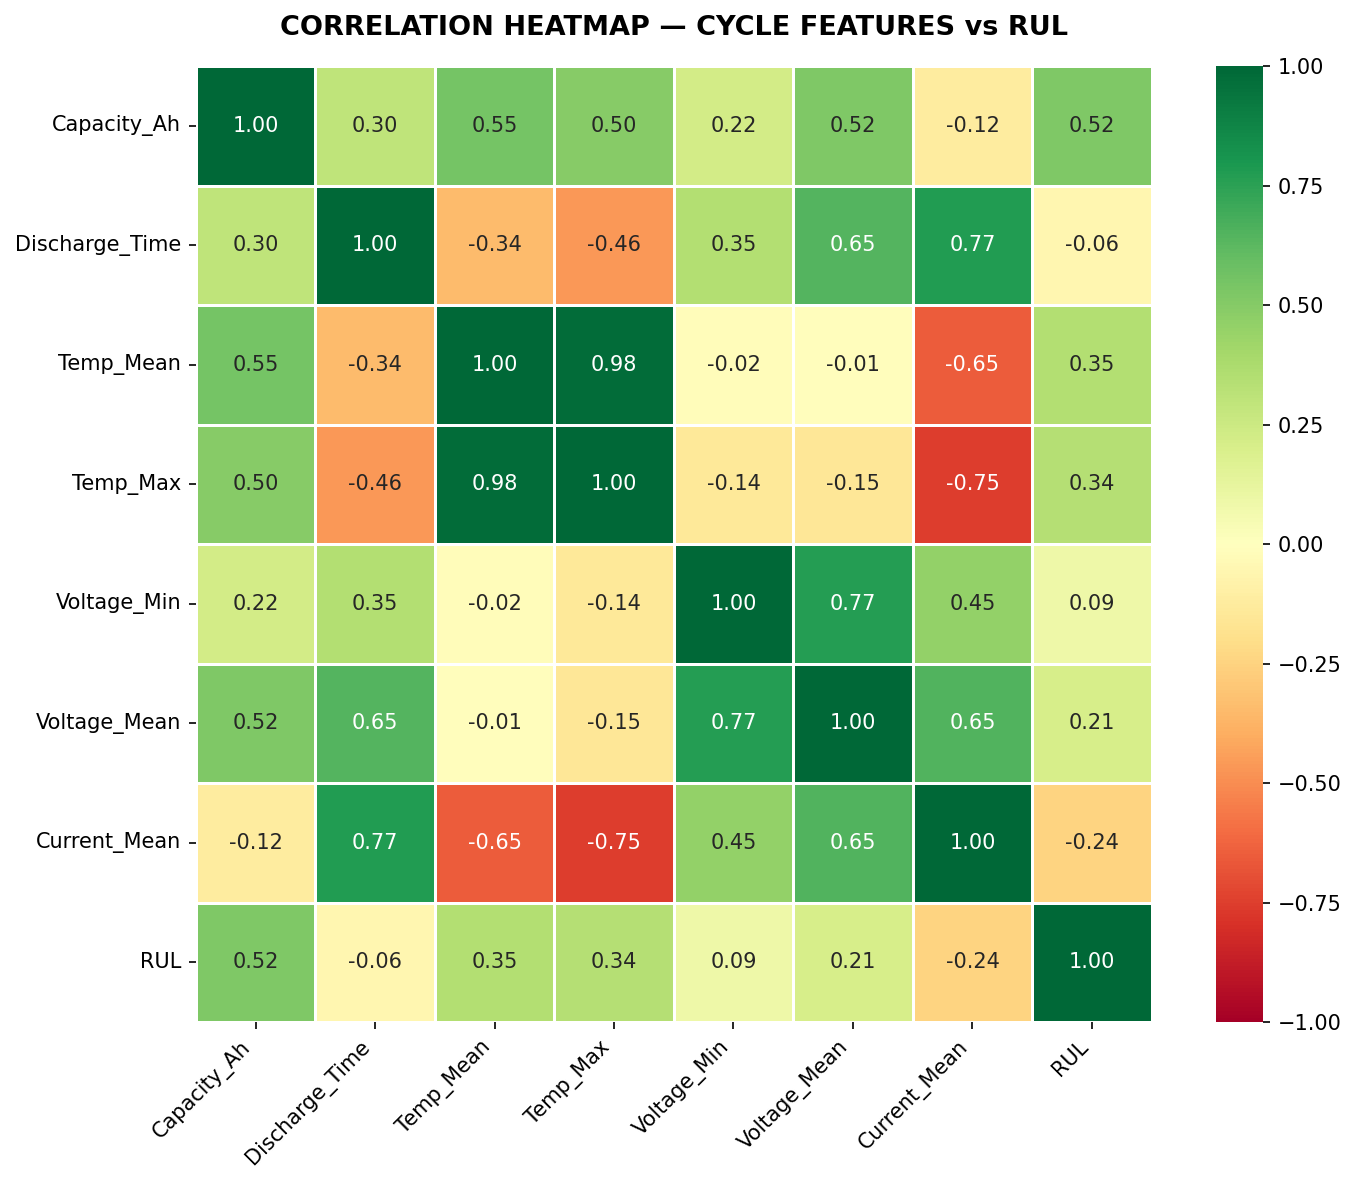
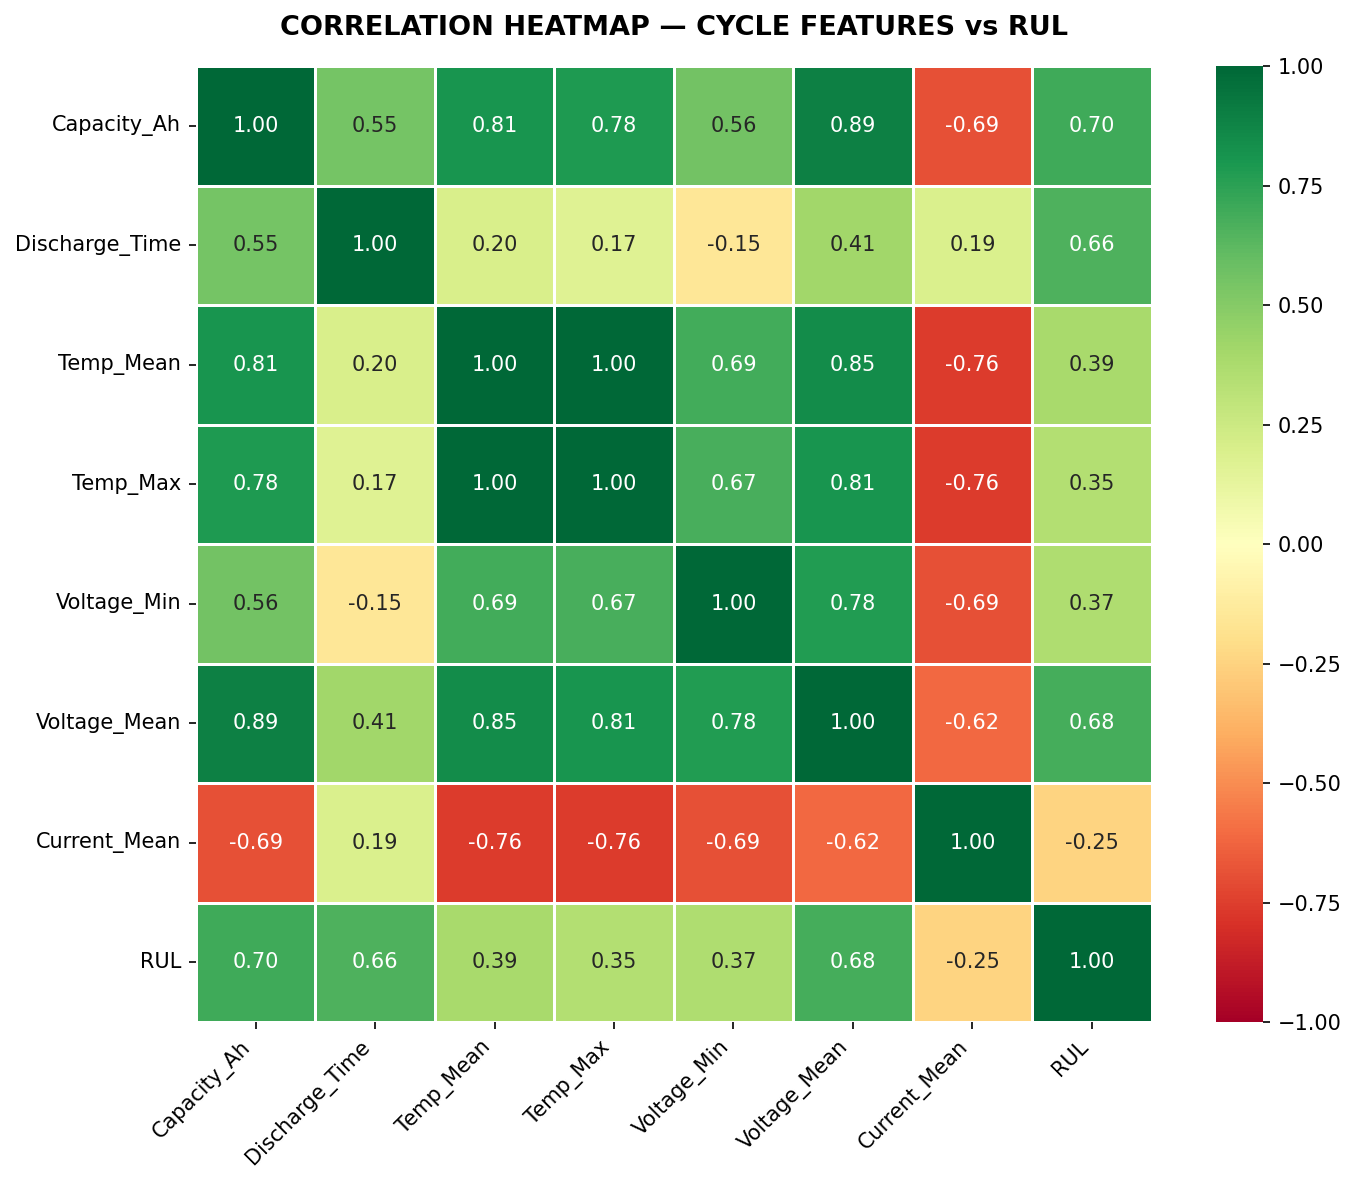
Add health_builder: CYCLE_HEALTH table for health prediction

diff --git a/src/features/health_builder.py b/src/features/health_builder.py
@@ -1,0 +1,94 @@
+import os
+import sys
+import numpy as np
+import pandas as pd
+
+SRC_DIR = os.path.dirname(os.path.dirname(os.path.abspath(__file__)))
+if SRC_DIR not in sys.path:
+    sys.path.insert(0, SRC_DIR)
+
+from db_connection import get_engine
+
+# ── PARAMETERS ───────────────────────────────────────────────────────────────
+MIN_VALID_CYCLES = 10   # ελάχιστοι έγκυροι κύκλοι για να μπει μπαταρία
+MAX_HEALTH = 1.15   # κύκλοι πάνω από αυτό θεωρούνται ακραίες τιμές
+
+
+def build_cycle_health():
+    engine = get_engine()
+    if engine is None:
+        print("Database connection failed.")
+        return
+
+    # ── STEP 1: Έγκυροι κύκλοι όλων των μπαταριών ────────────────────────────
+    print("Step 1/3: Loading valid cycles from CYCLE_FEATURES_ALL...")
+    base_df = pd.read_sql("""
+        SELECT Cycle_ID, Battery_ID, Cycle_Index, Capacity_Ah, Nominal
+        FROM CYCLE_FEATURES_ALL
+        WHERE Flag = 1
+        ORDER BY Battery_ID, Cycle_Index
+    """, engine)
+
+    counts = base_df.groupby("Battery_ID")["Cycle_ID"].count()
+    excluded = counts[counts < MIN_VALID_CYCLES]
+    base_df = base_df[base_df["Battery_ID"].isin(counts[counts >= MIN_VALID_CYCLES].index)].copy()
+    print(f"   {base_df['Battery_ID'].nunique()} batteries, {len(base_df)} cycles.")
+    if len(excluded) > 0:
+        print(f"   Excluded (< {MIN_VALID_CYCLES} valid cycles): {excluded.to_dict()}")
+
+    # ── STEP 2: Στόχος: ωμή χωρητικότητα / Nominal ───────────────────────────
+    base_df["Health"] = base_df["Capacity_Ah"] / base_df["Nominal"]
+
+    n_before = len(base_df)
+    base_df = base_df[base_df["Health"] <= MAX_HEALTH].copy()
+    print(f"   Removed {n_before - len(base_df)} cycles with Health > {MAX_HEALTH}.")
+
+    # ── STEP 3: Features από MEASUREMENTS ────────────────────────────────────
+    print("Step 2/3: Extracting features from MEASUREMENTS...")
+    ids_str = ",".join(str(i) for i in base_df["Cycle_ID"].tolist())
+    features_df = pd.read_sql(f"""
+        SELECT
+            Cycle_ID,
+            MAX(Time_Seconds)        AS Discharge_Time,
+            AVG(Temperature_Measure) AS Temp_Mean,
+            MAX(Temperature_Measure) AS Temp_Max,
+            MIN(Voltage_Measured)    AS Voltage_Min,
+            AVG(Voltage_Measured)    AS Voltage_Mean,
+            AVG(Current_Measured)    AS Current_Mean
+        FROM MEASUREMENTS
+        WHERE Cycle_ID IN ({ids_str})
+          AND Current_Measured < -0.1
+        GROUP BY Cycle_ID
+    """, engine)
+
+    out = base_df.merge(features_df, on="Cycle_ID", how="inner")
+    print(f"   Rows after merge: {len(out)} (lost {len(base_df) - len(out)} without measurements).")
+
+    out = out[[
+        "Cycle_ID", "Battery_ID", "Cycle_Index",
+        "Capacity_Ah", "Nominal", "Health",
+        "Discharge_Time", "Temp_Mean", "Temp_Max",
+        "Voltage_Min", "Voltage_Mean", "Current_Mean"
+    ]].copy()
+
+    # ── STEP 4: Αποθήκευση και σύνοψη ────────────────────────────────────────
+    print("Step 3/3: Saving CYCLE_HEALTH...")
+    out.to_sql("CYCLE_HEALTH", con=engine, if_exists="replace",
+               index=False, chunksize=200)
+
+    print("\n── HEALTH SUMMARY PER BATTERY ──")
+    print(f"{'Battery':>8} {'Cycles':>7} {'Nominal':>8} "
+          f"{'H_start':>8} {'H_end':>7} {'H_max':>7}")
+    print("-" * 52)
+    for bid, g in out.groupby("Battery_ID"):
+        g = g.sort_values("Cycle_Index")
+        print(f"{bid:>8} {len(g):>7} {g['Nominal'].iloc[0]:>8.3f} "
+              f"{g['Health'].head(5).median():>8.3f} "
+              f"{g['Health'].tail(5).median():>7.3f} "
+              f"{g['Health'].max():>7.3f}")
+
+    print("\nCYCLE_HEALTH is ready.")
+
+
+if __name__ == "__main__":
+    build_cycle_health()

diff --git a/src/Visualization/plot_soh.py b/src/Visualization/plot_soh.py
@@ -13,6 +13,7 @@ class SoHPlotter:
     VIEW_Y_MIN = -0.05
     VIEW_Y_MAX = 1.10
     SCROLL_STEP = 0.10
+    
 
     def __init__(self):
         self.engine = get_engine()
